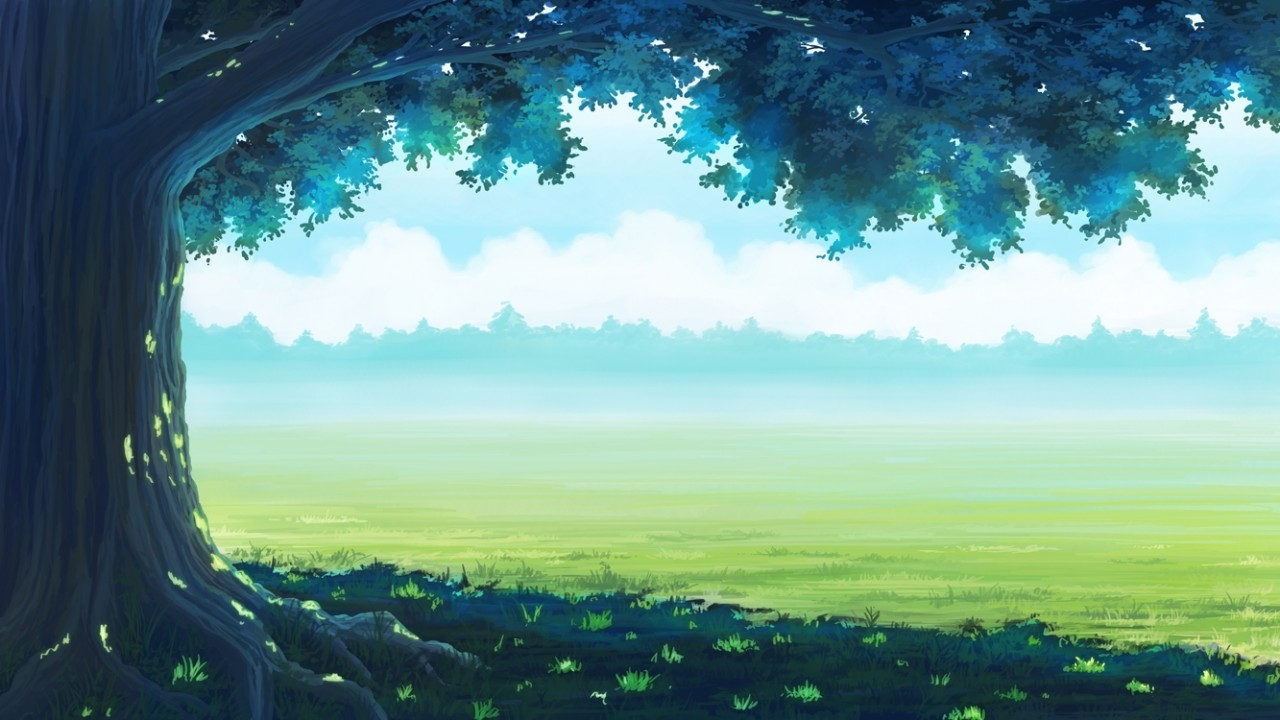
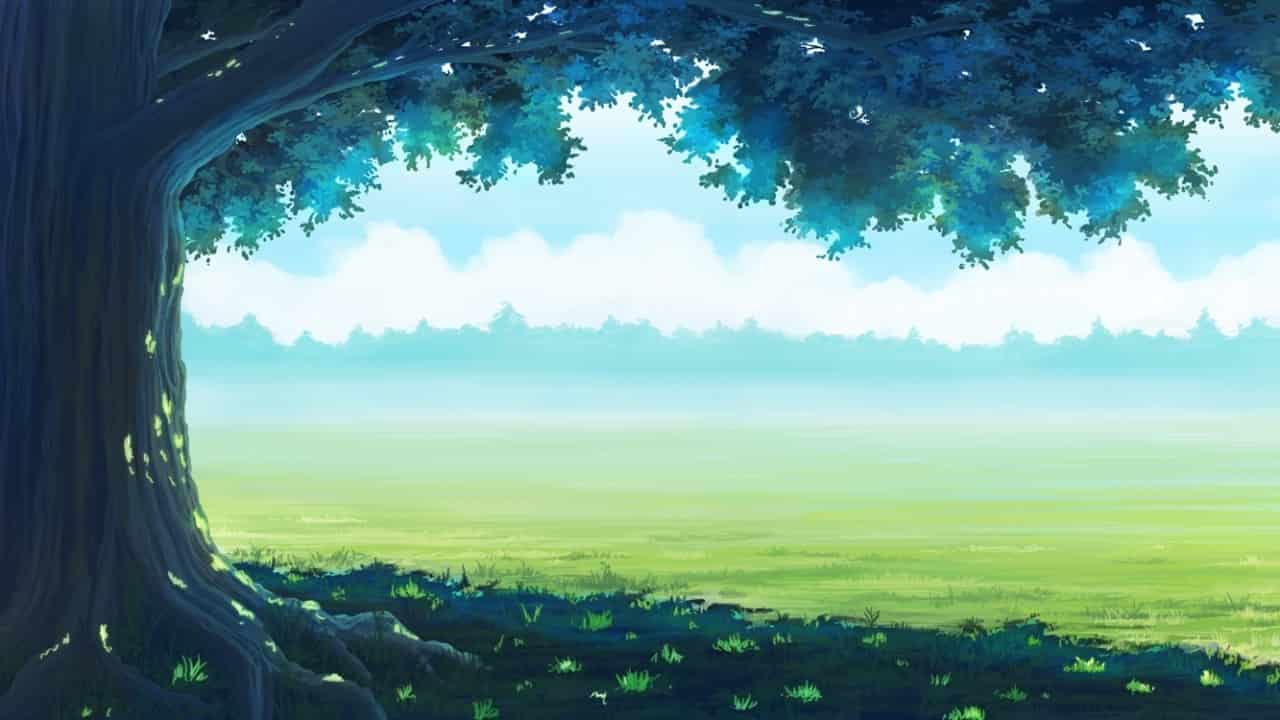
Filters and optimization * Added badges to know filters that are apply. * Optimized images to mobile use.

diff --git a/src/app/inhabitants/models/filtar-data.ts b/src/app/inhabitants/models/filtar-data.ts
@@ -9,7 +9,7 @@ interface RangeValue {
   providedIn: 'root'
 })
 export class FilterData {
-  isActive: boolean;
+  filtersApplied: string[];
   name: string;
   sorting: { asc: boolean; desc: boolean };
   ageRange: RangeValue;
@@ -19,7 +19,6 @@ export class FilterData {
   professions: string[];
 
   constructor() {
-    this.isActive = false;
     this.name = '';
     this.sorting = { asc: false, desc: false };
     this.ageRange = {
@@ -36,6 +35,7 @@ export class FilterData {
     };
     this.hairColors = [];
     this.professions = [];
+    this.filtersApplied = [];
   }
 
   copyFilters(filter: FilterData) {
@@ -59,7 +59,7 @@ export class FilterData {
   executeAllStrategies(dataset: Gnome[]) {
     let filterDataset = dataset;
 
-    this.isActive = false;
+    this.filtersApplied = [];
 
     filterDataset = this.nameStrategy(filterDataset);
     filterDataset = this.sortingStrategy(filterDataset);
@@ -82,7 +82,8 @@ export class FilterData {
   nameStrategy(dataset: Gnome[]) {
     let filteredDataset = dataset;
     if (this.name !== '') {
-      this.isActive = true;
+      this.filtersApplied.push('Name');
+
       filteredDataset = dataset.filter(gnome => {
         const gnomeName = gnome.name.toLowerCase();
         const nameToCompare = this.name.trim().toLowerCase();
@@ -102,7 +103,7 @@ export class FilterData {
   sortingStrategy(dataset: Gnome[]) {
     let sortedDataset = dataset;
     if (this.sorting.asc) {
-      this.isActive = true;
+      this.filtersApplied.push('Name asc');
 
       sortedDataset = sortedDataset.sort((gnomeA: Gnome, gnomeB: Gnome) => {
         const gnomeAName = gnomeA.name.toLowerCase().trim();
@@ -118,7 +119,7 @@ export class FilterData {
       });
     }
     if (this.sorting.desc) {
-      this.isActive = true;
+      this.filtersApplied.push('Name desc');
 
       sortedDataset = sortedDataset.sort((gnomeA: Gnome, gnomeB: Gnome) => {
         const gnomeAName = gnomeA.name.toLowerCase().trim();
@@ -145,7 +146,7 @@ export class FilterData {
    */
   ageRangeStrategy(dataset: Gnome[]) {
     if (this.ageRange.lower !== 0 || this.ageRange.upper !== 500) {
-      this.isActive = true;
+      this.filtersApplied.push('Age');
     }
     return dataset.filter(gnome => {
       return gnome.age <= this.ageRange.upper && gnome.age >= this.ageRange.lower;
@@ -161,7 +162,7 @@ export class FilterData {
    */
   weightRangeStrategy(dataset: Gnome[]) {
     if (this.weightRange.lower !== 20 || this.weightRange.upper !== 60) {
-      this.isActive = true;
+      this.filtersApplied.push('Weight');
     }
     return dataset.filter(gnome => {
       return gnome.weight <= this.weightRange.upper && gnome.weight >= this.weightRange.lower;
@@ -178,7 +179,7 @@ export class FilterData {
    */
   heightRangeStrategy(dataset: Gnome[]) {
     if (this.heightRange.lower !== 0 || this.heightRange.upper !== 300) {
-      this.isActive = true;
+      this.filtersApplied.push('Height');
     }
     return dataset.filter(gnome => {
       return gnome.height <= this.heightRange.upper && gnome.height >= this.heightRange.lower;
@@ -196,7 +197,7 @@ export class FilterData {
   hairColorsStrategy(dataset: Gnome[]) {
     let filteredDataset = dataset;
     if (this.hairColors.length !== 0) {
-      this.isActive = true;
+      this.filtersApplied.push('Hair');
 
       filteredDataset = dataset.filter(gnome => {
         return this.hairColors.includes(gnome.hair_color.trim());
@@ -217,7 +218,7 @@ export class FilterData {
   professionsStrategy(dataset: Gnome[]) {
     let filteredDataset = dataset;
     if (this.professions.length !== 0) {
-      this.isActive = true;
+      this.filtersApplied.push('Professions');
 
       filteredDataset = dataset.filter(gnome => {
         for (const profession of gnome.professions) {

diff --git a/src/app/core/services/population.service.ts b/src/app/core/services/population.service.ts
@@ -18,13 +18,13 @@ export class PopulationService {
   private gnomeSelectedSubject: BehaviorSubject<Gnome>;
   private professionsSubject: BehaviorSubject<string[]>;
   private hairColorsSubject: BehaviorSubject<string[]>;
-  private filterStatusSubject: BehaviorSubject<boolean>;
+  private filtersAppliedSubject: BehaviorSubject<string[]>;
 
   public gnomesInformation$: Observable<Gnome[]>;
   public gnomeSelected$: Observable<Gnome>;
   public professions$: Observable<string[]>;
   public hairColors$: Observable<string[]>;
-  public filterStatus$: Observable<boolean>;
+  public filtersApplied$: Observable<string[]>;
 
   constructor(
     @Inject(APP_CONFIG) constants: AppConfig,
@@ -45,8 +45,8 @@ export class PopulationService {
     this.professionsSubject = new BehaviorSubject([]);
     this.professions$ = this.professionsSubject.asObservable();
 
-    this.filterStatusSubject = new BehaviorSubject(this.filterData.isActive);
-    this.filterStatus$ = this.filterStatusSubject.asObservable();
+    this.filtersAppliedSubject = new BehaviorSubject(this.filterData.filtersApplied);
+    this.filtersApplied$ = this.filtersAppliedSubject.asObservable();
   }
 
   /**
@@ -107,6 +107,6 @@ export class PopulationService {
     const futureDataset = this.filterData.executeAllStrategies(this.populationDetail);
 
     this.gnomesInformationSubject.next(futureDataset);
-    this.filterStatusSubject.next(this.filterData.isActive);
+    this.filtersAppliedSubject.next(this.filterData.filtersApplied);
   }
 }

diff --git a/src/app/inhabitants/inhabitants.page.html b/src/app/inhabitants/inhabitants.page.html
@@ -1,16 +1,28 @@
-<ion-header>
+<ion-header *ngIf="(filtersApplied$ | async) as filters">
   <ion-toolbar color="dark"> <ion-title> Inhabitants List </ion-title> </ion-toolbar>
-  <ion-toolbar class="filter-item" *ngIf="(gnomesInformation$ | async).length !== 0">
+  <ion-toolbar
+    class="filter-item"
+    *ngIf="(gnomesInformation$ | async).length !== 0 || filters.length !== 0"
+  >
     <ion-item lines="none">
       <ion-searchbar debounce="250" (ionChange)="searchByName($event)"></ion-searchbar>
       <ion-icon
         name="options"
         slot="end"
         (click)="openFilterModal()"
-        [color]="(filterStatus$ | async) ? 'primary' : 'secondary'"
+        [color]="filters.length !== 0 ? 'primary' : 'secondary'"
         class="filter-icon"
       ></ion-icon>
     </ion-item>
+    <!--     <ion-item lines="none" *ngIf="(filtersApplied$ | async).length !== 0" class="badges-item">
+ -->
+    <div class="badges-list" *ngIf="filters.length !== 0">
+      <ion-badge color="primary" *ngFor="let filterName of filters" class="badge">
+        {{ filterName }}
+      </ion-badge>
+    </div>
+    <!--       </ion-item
+    > -->
   </ion-toolbar>
 </ion-header>
 

diff --git a/src/app/inhabitants/inhabitants.page.ts b/src/app/inhabitants/inhabitants.page.ts
@@ -15,14 +15,14 @@ import { InhabitantsFilterModalComponent } from './components/inhabitants-filter
 })
 export class InhabitantsPage implements OnInit {
   gnomesInformation$: Observable<Gnome[]>;
-  filterStatus$: Observable<boolean>;
+  filtersApplied$: Observable<string[]>;
   constructor(
     private populationService: PopulationService,
     private router: Router,
     private modalController: ModalController
   ) {
     this.gnomesInformation$ = this.populationService.gnomesInformation$;
-    this.filterStatus$ = this.populationService.filterStatus$;
+    this.filtersApplied$ = this.populationService.filtersApplied$;
   }
 
   ngOnInit() {

diff --git a/src/app/my-character/my-character.page.ts b/src/app/my-character/my-character.page.ts
@@ -10,10 +10,8 @@ import { User } from '../shared/models/user';
 })
 export class MyCharacterPage {
   user: User;
-  userImgPath: string;
   constructor(private authService: AuthService, private router: Router) {
     this.user = this.authService.user;
-    this.userImgPath = `/assets/${this.user.race}-${this.user.gender}.jpg`;
   }
   logout() {
     this.authService.logout('/tabs/my-character');

diff --git a/src/app/my-character/my-character.page.html b/src/app/my-character/my-character.page.html
@@ -4,7 +4,7 @@
 
 <ion-content>
   <ion-card>
-    <ion-img [src]="userImgPath" class="img"></ion-img>
+    <ion-img [src]="'/assets/' + user.race + '-' + user.gender + '.jpg'" class="img"></ion-img>
     <ion-card-header>
       <ion-card-title color="light" class="card-header">{{ user.username }}</ion-card-title>
     </ion-card-header>

diff --git a/src/app/inhabitants/inhabitants.page.scss b/src/app/inhabitants/inhabitants.page.scss
@@ -3,3 +3,15 @@
   height: 50px;
   margin-right: 20px;
 }
+
+.badges-list {
+  display: flex;
+  justify-content: flex-start;
+  flex-wrap: wrap;
+  margin-left: 5vw;
+  margin-right: 5vw;
+  .badge {
+    margin-right: 3px;
+    margin-top: 1vh;
+  }
+}
